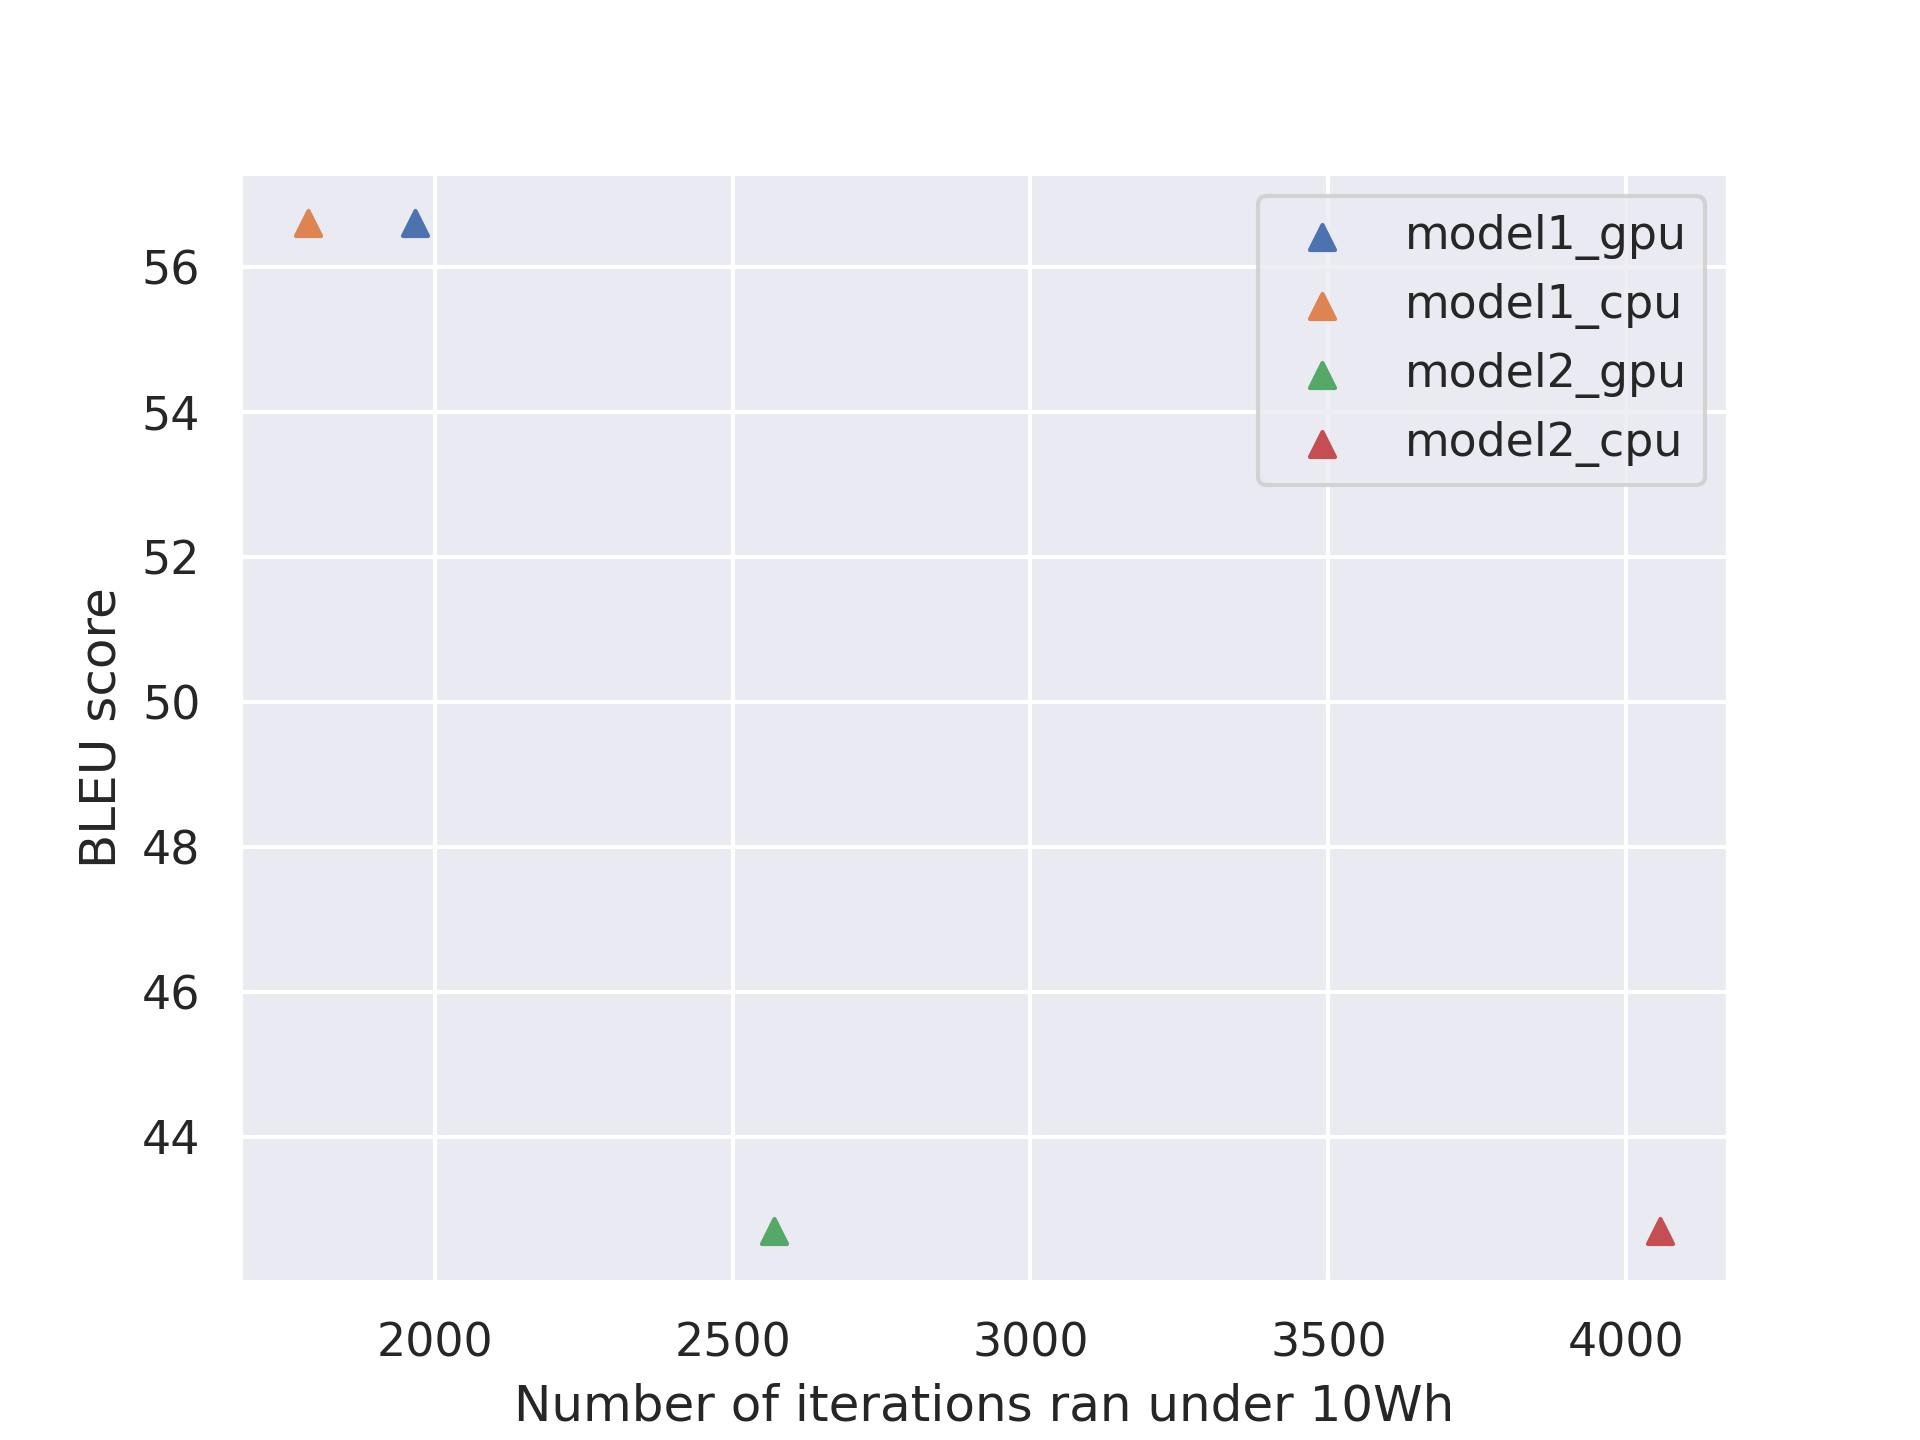
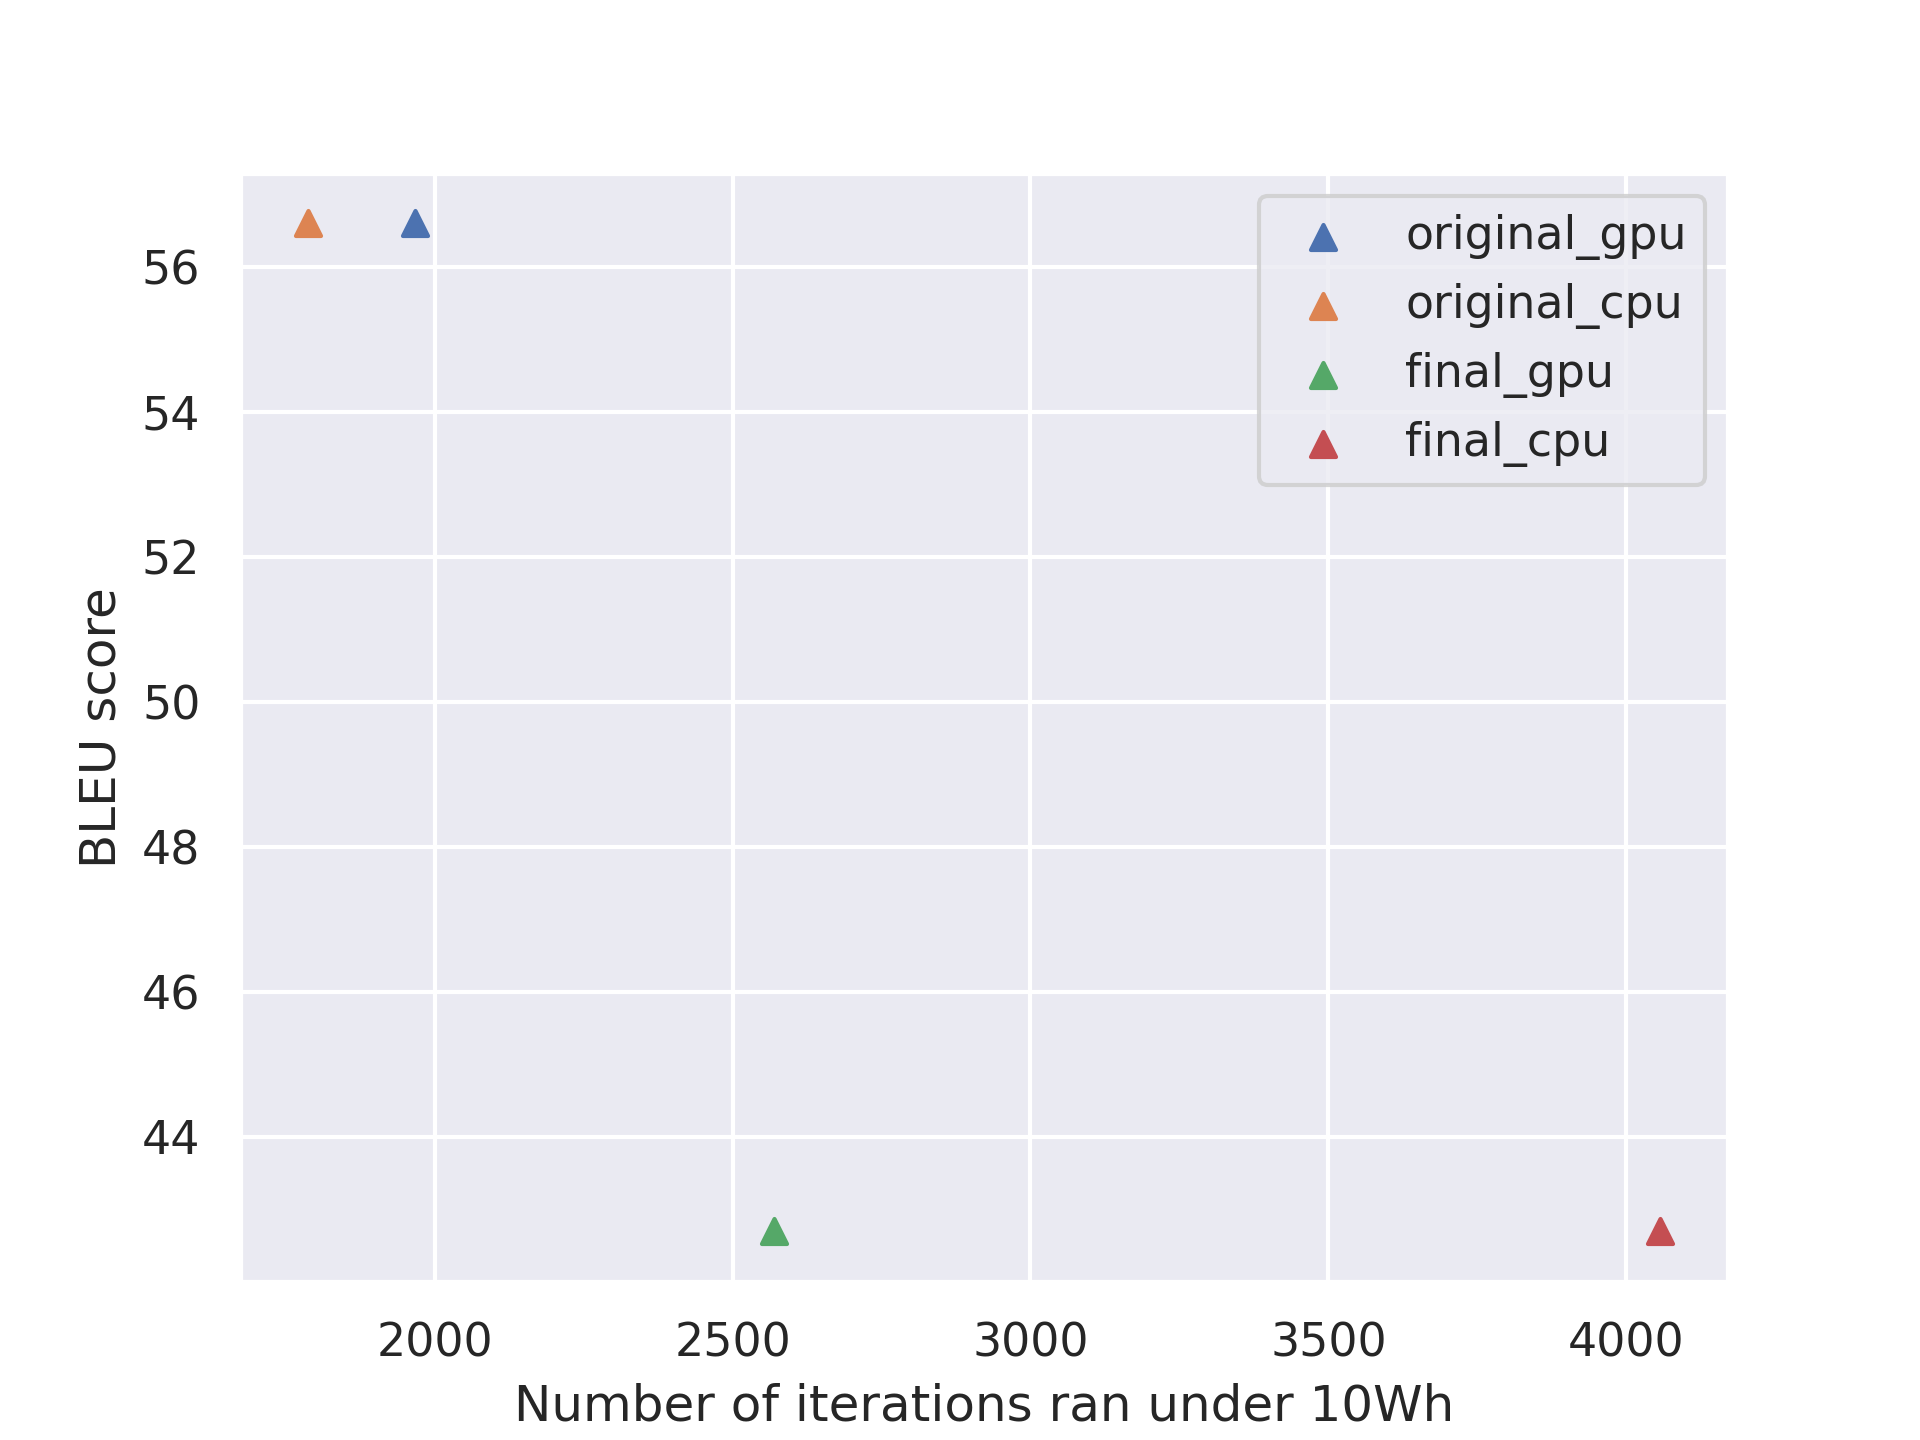
Rename models

Changed region(s): [[0.7188, 0.25, 0.875, 0.3438], [0.7188, 0.1562, 0.875, 0.2188]]

diff --git a/output/plot_under_budget.py b/output/plot_under_budget.py
@@ -10,16 +10,16 @@ import seaborn as sns
 sns.set_theme()  # sns.set_style('whitegrid')
 
 n_iters_10Wh = {
-    "model1_gpu": 1967,
-    "model1_cpu": 1787,
-    "model2_gpu": 2570,
-    "model2_cpu": 4057
+    "original_gpu": 1967,
+    "original_cpu": 1787,
+    "final_gpu": 2570,
+    "final_cpu": 4057
 }
 BLEU = {
-    "model1_gpu": 56.6,
-    "model1_cpu": 56.6,
-    "model2_gpu": 42.7,
-    "model2_cpu": 42.7
+    "original_gpu": 56.6,
+    "original_cpu": 56.6,
+    "final_gpu": 42.7,
+    "final_cpu": 42.7
 }
 
 
